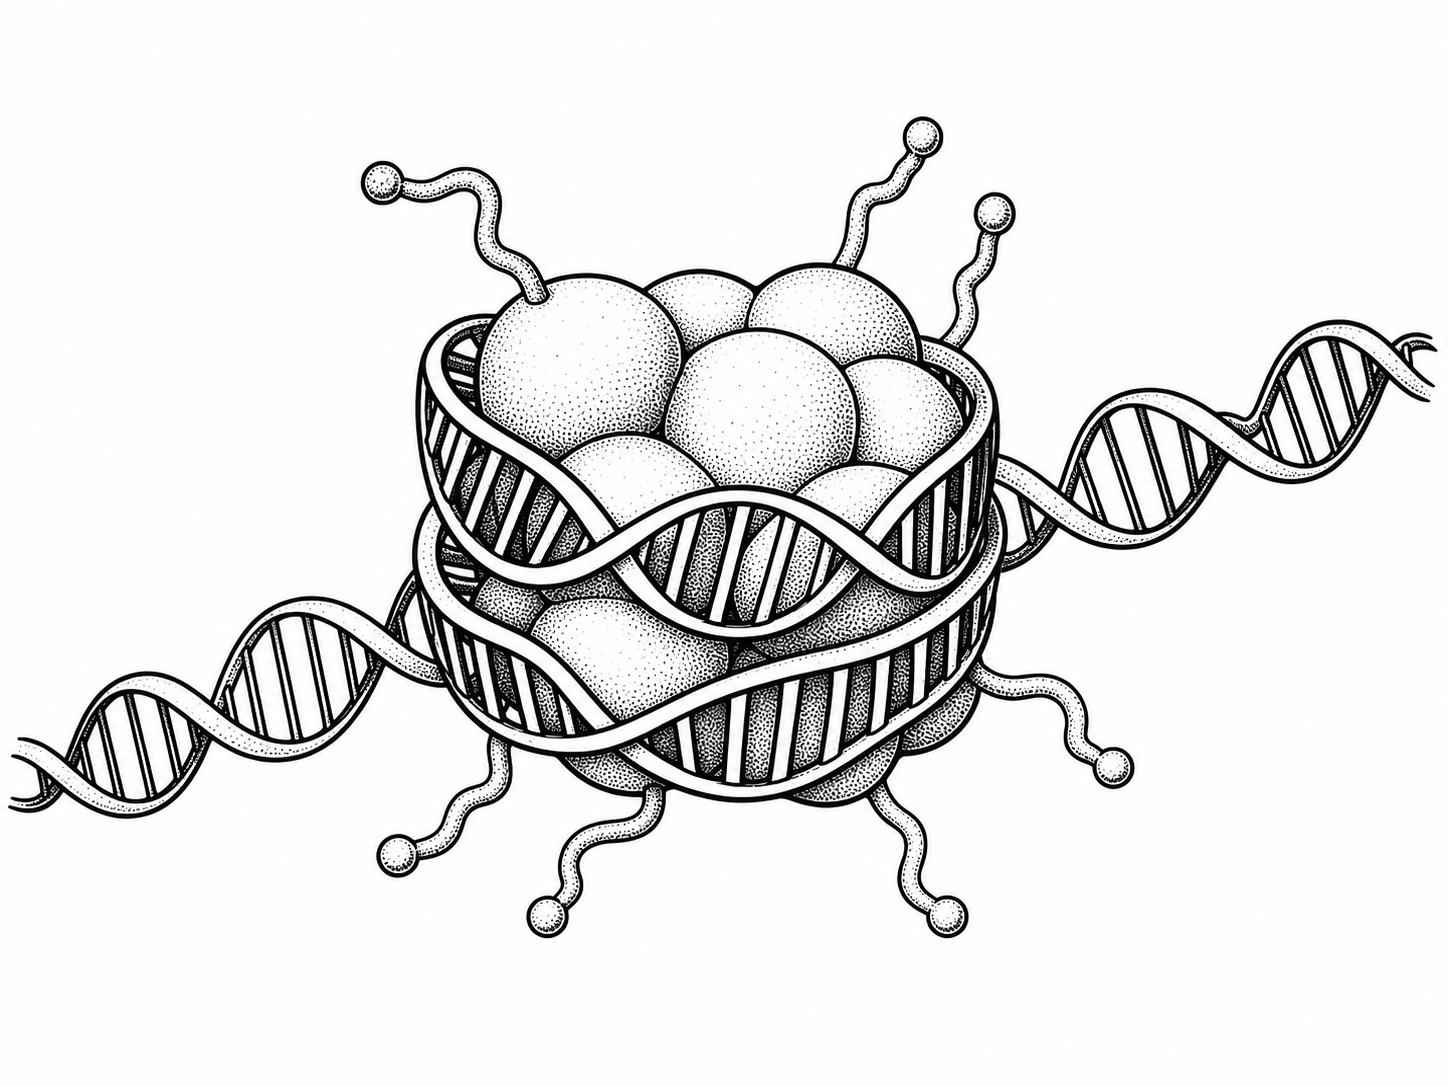
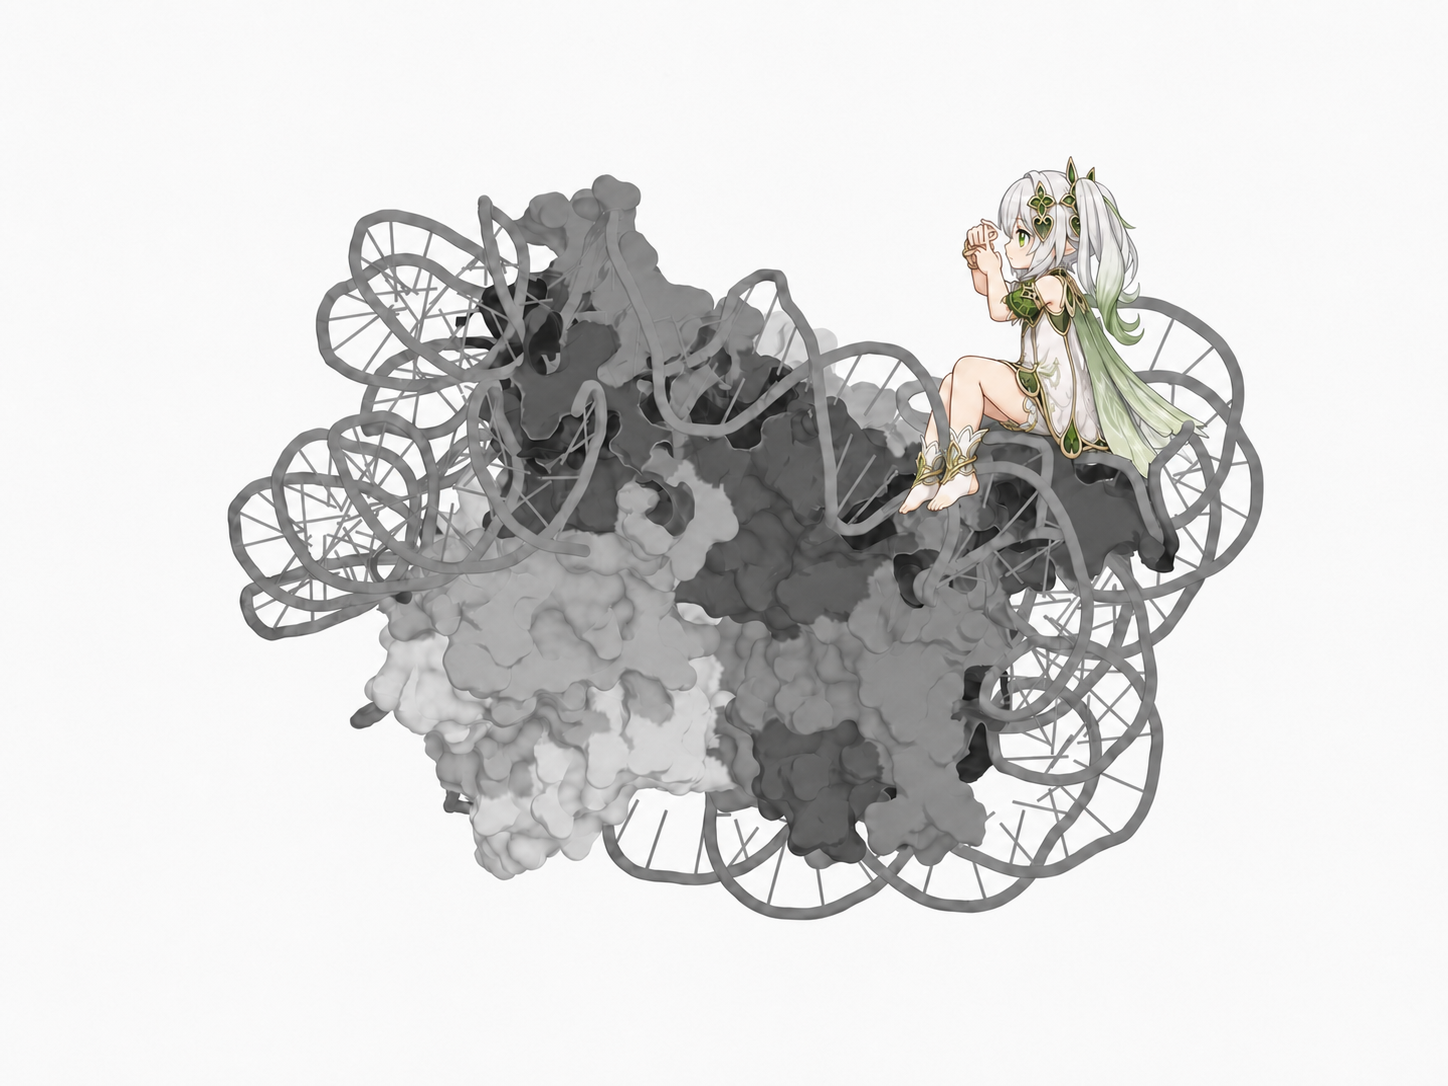
Add interactive histone color reveal

diff --git a/sites/app/InteractiveImage.tsx b/sites/app/InteractiveImage.tsx
@@ -1,29 +1,145 @@
 "use client";
 
-import { useState } from "react";
+import { PointerEvent, useEffect, useRef, useState } from "react";
+
+const IMAGE_WIDTH = 1448;
+const IMAGE_HEIGHT = 1086;
+
+const histones = [
+  { chain: "A", name: "H3" },
+  { chain: "B", name: "H4" },
+  { chain: "C", name: "H2A" },
+  { chain: "D", name: "H2B" },
+  { chain: "E", name: "H3" },
+  { chain: "F", name: "H4" },
+  { chain: "G", name: "H2A" },
+  { chain: "H", name: "H2B" },
+] as const;
+
+type Histone = (typeof histones)[number];
 
 export default function InteractiveImage() {
   const [motionKey, setMotionKey] = useState(0);
+  const [activeHistone, setActiveHistone] = useState<Histone | null>(null);
+  const cursorRef = useRef<HTMLSpanElement>(null);
+  const masksRef = useRef<Array<{ histone: Histone; context: CanvasRenderingContext2D }>>([]);
+
+  useEffect(() => {
+    let cancelled = false;
+
+    Promise.all(
+      histones.map(
+        (histone) =>
+          new Promise<{ histone: Histone; context: CanvasRenderingContext2D }>((resolve) => {
+            const image = new Image();
+            image.onload = () => {
+              const canvas = document.createElement("canvas");
+              canvas.width = IMAGE_WIDTH;
+              canvas.height = IMAGE_HEIGHT;
+              const context = canvas.getContext("2d", { willReadFrequently: true });
+              if (!context) return;
+              context.drawImage(image, 0, 0);
+              resolve({ histone, context });
+            };
+            image.src = `/histone-overlays/chain-${histone.chain}.png`;
+          }),
+      ),
+    ).then((masks) => {
+      if (!cancelled) masksRef.current = masks;
+    });
+
+    return () => {
+      cancelled = true;
+    };
+  }, []);
+
+  function handlePointerMove(event: PointerEvent<HTMLSpanElement>) {
+    const bounds = event.currentTarget.getBoundingClientRect();
+    const localX = event.clientX - bounds.left;
+    const localY = event.clientY - bounds.top;
+
+    if (cursorRef.current) {
+      cursorRef.current.style.transform = `translate3d(${localX}px, ${localY}px, 0) translate(-50%, -50%)`;
+    }
+
+    const normalizedX = localX / bounds.width;
+    const normalizedY = localY / bounds.height;
+
+    // Nahida sits in front of the molecular model, so the histones behind her
+    // should not respond through her silhouette.
+    if (normalizedX > 0.6 && normalizedX < 0.86 && normalizedY > 0.11 && normalizedY < 0.55) {
+      setActiveHistone(null);
+      return;
+    }
+
+    const pixelX = Math.max(0, Math.min(IMAGE_WIDTH - 1, Math.floor(normalizedX * IMAGE_WIDTH)));
+    const pixelY = Math.max(0, Math.min(IMAGE_HEIGHT - 1, Math.floor(normalizedY * IMAGE_HEIGHT)));
+
+    let strongest: { histone: Histone; alpha: number } | null = null;
+    for (const mask of masksRef.current) {
+      const alpha = mask.context.getImageData(pixelX, pixelY, 1, 1).data[3];
+      if (alpha > (strongest?.alpha ?? 12)) strongest = { histone: mask.histone, alpha };
+    }
+
+    setActiveHistone((current) =>
+      current?.chain === strongest?.histone.chain ? current : strongest?.histone ?? null,
+    );
+  }
 
   return (
     <button
       type="button"
       className="interactive-figure"
       onClick={() => setMotionKey((current) => current + 1)}
-      aria-label="让核小体插画动一下"
+      aria-label="用四叶印查看彩色组蛋白，点击让核小体动一下"
     >
       <span
         key={motionKey}
         className={motionKey > 0 ? "interactive-figure-motion" : undefined}
       >
-        <img
-          src="/interactive-nucleosome.png"
-          alt="黑白复古风格的核小体和 DNA 插画"
-          width="1448"
-          height="1086"
-        />
+        <span
+          className="interactive-figure-stage"
+          onPointerMove={handlePointerMove}
+          onPointerLeave={() => setActiveHistone(null)}
+        >
+          <img
+            src="/interactive-nucleosome.png"
+            alt="彩色纳西妲坐在黑白核小体 DNA 上的插画"
+            width={IMAGE_WIDTH}
+            height={IMAGE_HEIGHT}
+          />
+          {activeHistone ? (
+            <img
+              className="histone-color-layer"
+              src={`/histone-overlays/chain-${activeHistone.chain}.png`}
+              alt=""
+              aria-hidden="true"
+              width={IMAGE_WIDTH}
+              height={IMAGE_HEIGHT}
+            />
+          ) : null}
+          <img
+            className="nahida-foreground-guard"
+            src="/interactive-nucleosome.png"
+            alt=""
+            aria-hidden="true"
+            width={IMAGE_WIDTH}
+            height={IMAGE_HEIGHT}
+          />
+          <span ref={cursorRef} className="nahida-cursor" aria-hidden="true">
+            <i className="nahida-cursor-petal petal-one" />
+            <i className="nahida-cursor-petal petal-two" />
+            <i className="nahida-cursor-petal petal-three" />
+            <i className="nahida-cursor-petal petal-four" />
+            <i className="nahida-cursor-core" />
+          </span>
+        </span>
       </span>
-      <span className="interactive-figure-caption">点击图片，让它动一下</span>
+      <span className="interactive-figure-caption">
+        {activeHistone
+          ? `${activeHistone.name} 组蛋白 · 链 ${activeHistone.chain}`
+          : "移动四叶印查看组蛋白，点击图片让它动一下"}
+      </span>
     </button>
   );
 }

diff --git a/sites/app/globals.css b/sites/app/globals.css
@@ -178,12 +178,95 @@ h1 {
   transform-origin: 50% 58%;
 }
 
-.interactive-figure img {
+.interactive-figure-stage {
+  position: relative;
+  display: block;
+  overflow: hidden;
+}
+
+.interactive-figure-stage img {
   width: 100%;
   height: auto;
   display: block;
   user-select: none;
   -webkit-user-drag: none;
+}
+
+.histone-color-layer,
+.nahida-foreground-guard {
+  position: absolute;
+  inset: 0;
+  pointer-events: none;
+}
+
+.histone-color-layer {
+  z-index: 1;
+}
+
+.nahida-foreground-guard {
+  z-index: 2;
+  clip-path: polygon(60% 10%, 81% 10%, 88% 25%, 86% 53%, 72% 57%, 59% 44%);
+}
+
+.nahida-cursor {
+  position: absolute;
+  top: 0;
+  left: 0;
+  z-index: 3;
+  width: 26px;
+  height: 26px;
+  display: none;
+  pointer-events: none;
+  filter: drop-shadow(0 0 2px var(--paper));
+}
+
+.nahida-cursor-petal {
+  position: absolute;
+  left: 9px;
+  top: 1px;
+  width: 8px;
+  height: 12px;
+  border: 1.5px solid #536d2a;
+  border-radius: 80% 25% 80% 25%;
+  background: rgba(245, 250, 225, 0.9);
+  transform-origin: 50% 100%;
+}
+
+.nahida-cursor .petal-one {
+  transform: rotate(0deg);
+}
+
+.nahida-cursor .petal-two {
+  transform: rotate(90deg);
+}
+
+.nahida-cursor .petal-three {
+  transform: rotate(180deg);
+}
+
+.nahida-cursor .petal-four {
+  transform: rotate(270deg);
+}
+
+.nahida-cursor-core {
+  position: absolute;
+  left: 10px;
+  top: 10px;
+  width: 6px;
+  height: 6px;
+  border: 1px solid #8a6c20;
+  border-radius: 50%;
+  background: #d8ba57;
+}
+
+@media (pointer: fine) {
+  .interactive-figure-stage {
+    cursor: none;
+  }
+
+  .interactive-figure-stage:hover .nahida-cursor {
+    display: block;
+  }
 }
 
 .interactive-figure-caption {
